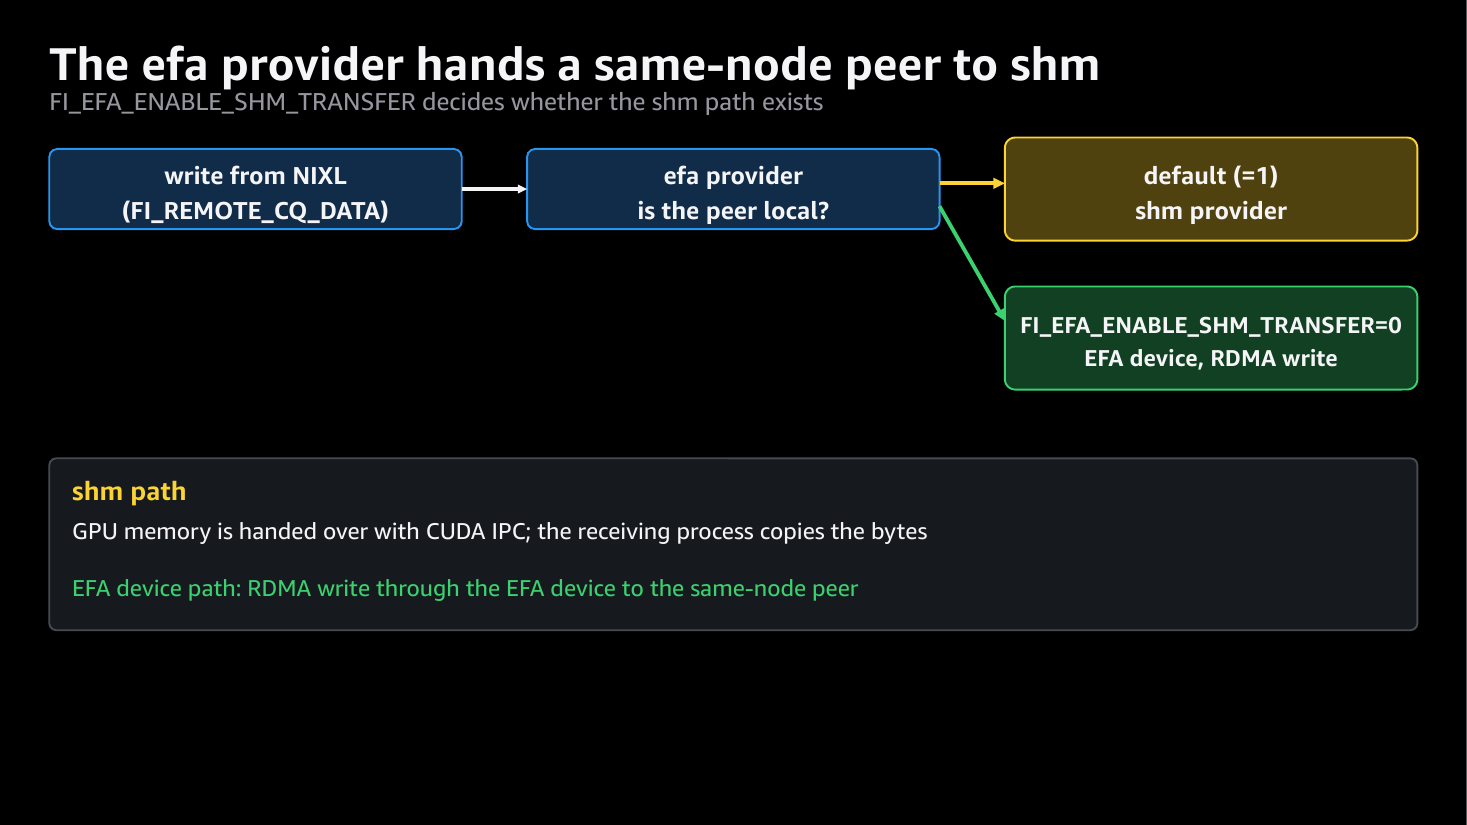
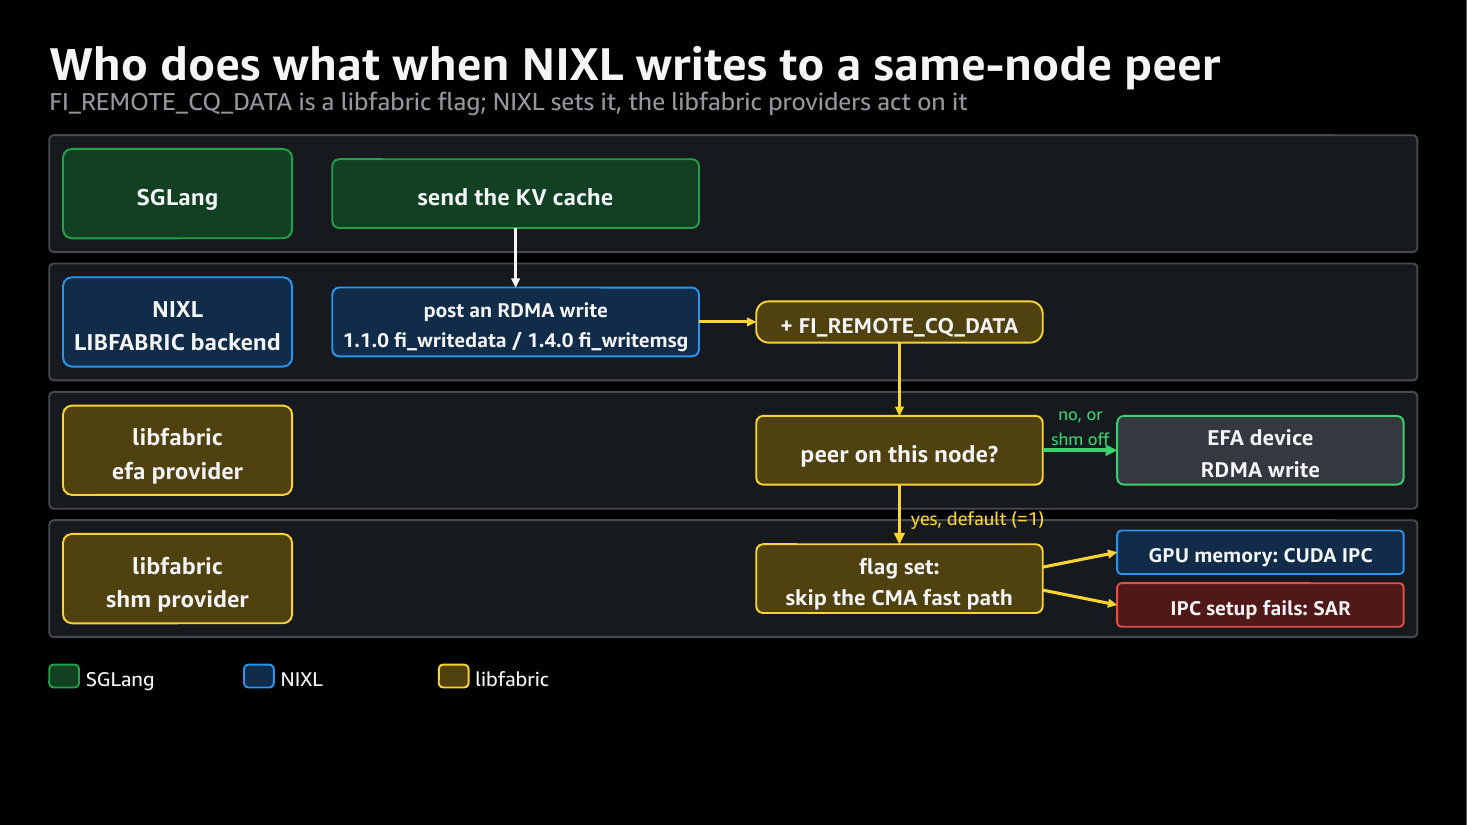
741e79cf2e9bf2: redraw efa-shm as owner lanes (SGLang, NIXL, libfabric efa, libfabric shm)

diff --git a/zenn/articles/741e79cf2e9bf2/source/gen_figs.py b/zenn/articles/741e79cf2e9bf2/source/gen_figs.py
@@ -76,20 +76,38 @@ arrow(s, 323, 442, 323, 486, YEL, 2.5)
 arrow(s, 957, 442, 957, 486)
 label(s, 43, 590, 1194, 30, "By default, same-node data does not go through the EFA device", size=15, color=YEL)
 
-# 2. efa hands off to shm
+# 2. efa hands off to shm: who owns which step
 s = d.slide().s
-title(s, "The efa provider hands a same-node peer to shm", "FI_EFA_ENABLE_SHM_TRANSFER decides whether the shm path exists")
-box(s, 43, 130, 360, 70, LINK_DK, stroke=LINK, body="write from NIXL\n(FI_REMOTE_CQ_DATA)", size=16)
-box(s, 460, 130, 360, 70, LINK_DK, stroke=LINK, body="efa provider\nis the peer local?", size=16)
-arrow(s, 403, 165, 460, 165)
-box(s, 877, 120, 360, 90, YEL_DK, stroke=YEL, body="default (=1)\nshm provider", size=16)
-box(s, 877, 250, 360, 90, GRN_DK, stroke=GRN_HI, body="FI_EFA_ENABLE_SHM_TRANSFER=0\nEFA device, RDMA write", size=15)
-arrow(s, 820, 160, 877, 160, YEL, 2.5)
-arrow(s, 820, 180, 877, 280, GRN_HI, 2.5)
-box(s, 43, 400, 1194, 150, CHIP, stroke=EDGE, radius=0.04)
-label(s, 63, 410, 1154, 30, "shm path", size=17, bold=True, color=YEL, align="left")
-label(s, 63, 445, 1154, 30, "GPU memory is handed over with CUDA IPC; the receiving process copies the bytes", size=15, align="left")
-label(s, 63, 495, 1154, 30, "EFA device path: RDMA write through the EFA device to the same-node peer", size=15, color=GRN_HI, align="left")
+title(s, "Who does what when NIXL writes to a same-node peer",
+      "FI_REMOTE_CQ_DATA is a libfabric flag; NIXL sets it, the libfabric providers act on it")
+lanes = [("SGLang", GRN_DK, GRN), ("NIXL\nLIBFABRIC backend", LINK_DK, LINK),
+         ("libfabric\nefa provider", YEL_DK, YEL), ("libfabric\nshm provider", YEL_DK, YEL)]
+for i, (name, fill, stroke) in enumerate(lanes):
+    y = 118 + i * 112
+    box(s, 43, y, 1194, 102, CHIP, stroke=EDGE, radius=0.04)
+    box(s, 55, y + 12, 200, 78, fill, stroke=stroke, body=name, size=15)
+box(s, 290, 139, 320, 60, GRN_DK, stroke=GRN, body="send the KV cache", size=15)
+box(s, 290, 251, 320, 60, LINK_DK, stroke=LINK, body="post an RDMA write\n1.1.0 fi_writedata / 1.4.0 fi_writemsg", size=13)
+arrow(s, 450, 199, 450, 251)
+box(s, 660, 263, 250, 36, YEL_DK, stroke=YEL, body="+ FI_REMOTE_CQ_DATA", size=14, radius=0.3)
+arrow(s, 610, 281, 660, 281, YEL, 2)
+box(s, 660, 363, 250, 60, YEL_DK, stroke=YEL, body="peer on this node?", size=15)
+arrow(s, 785, 299, 785, 363, YEL, 2)
+box(s, 975, 363, 250, 60, GREY, stroke=GRN_HI, body="EFA device\nRDMA write", size=14)
+arrow(s, 910, 393, 975, 393, GRN_HI, 2.5)
+label(s, 908, 352, 70, 36, "no, or\nshm off", size=11, color=GRN_HI)
+box(s, 660, 475, 250, 60, YEL_DK, stroke=YEL, body="flag set:\nskip the CMA fast path", size=14)
+arrow(s, 785, 423, 785, 475, YEL, 2.5)
+label(s, 795, 432, 160, 36, "yes, default (=1)", size=12, color=YEL, align="left")
+box(s, 975, 463, 250, 38, LINK_DK, stroke=LINK, body="GPU memory: CUDA IPC", size=13)
+box(s, 975, 509, 250, 38, RED_DK, stroke=RED, body="IPC setup fails: SAR", size=13)
+arrow(s, 910, 495, 975, 482, YEL, 2)
+arrow(s, 910, 515, 975, 528, YEL, 2)
+legend = [("SGLang", GRN_DK, GRN), ("NIXL", LINK_DK, LINK), ("libfabric", YEL_DK, YEL)]
+for i, (name, fill, stroke) in enumerate(legend):
+    x = 43 + i * 170
+    box(s, x, 580, 26, 20, fill, stroke=stroke, radius=0.2)
+    label(s, x + 32, 576, 130, 28, name, size=13, align="left")
 
 # 3. CUDA IPC on shm
 s = d.slide().s
